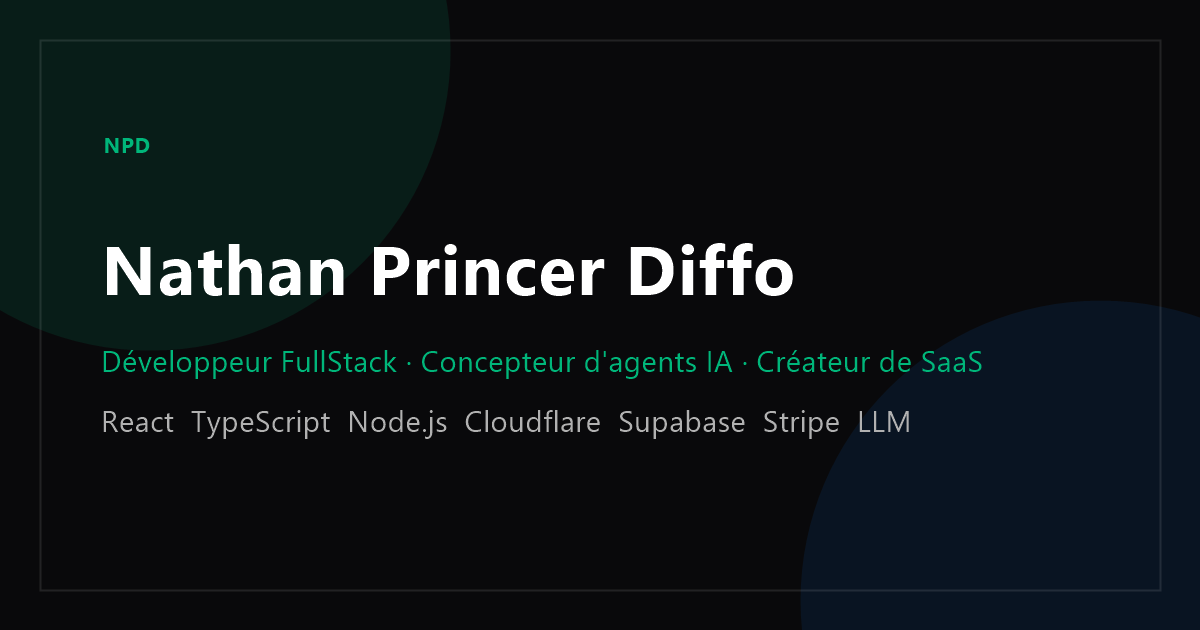
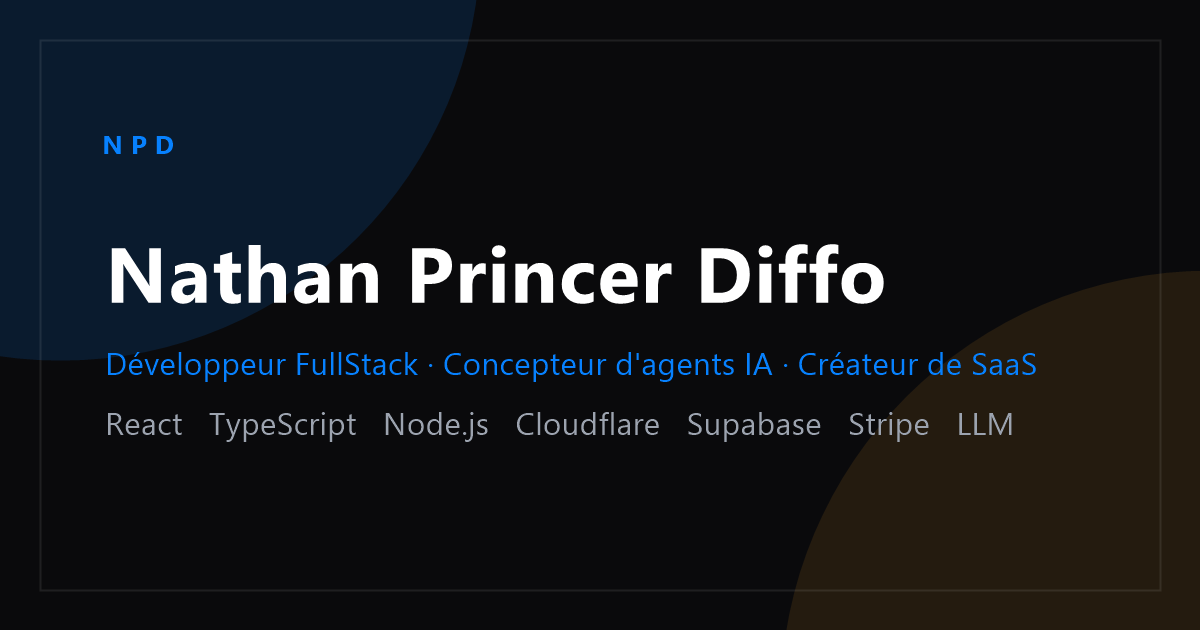
Alignement sur la charte Hope Traders : bleu #0781FE, or en accent
Palette migrée du vert ConfluenceTerminal historique vers la charte
commune : bleu de marque, or pour les mots mis en valeur, fond aux halos
bleu/or. Favicon, og.png et apple-touch-icon régénérés en bleu.

diff --git a/src/index.css b/src/index.css
@@ -1,11 +1,11 @@
 @import 'tailwindcss';
 
 /* ═══════════════════════════════════════════════════════════════════════════
-   DESIGN TOKENS — identiques à ConfluenceTerminal
-   Palette : #09090B · #131315 · #FFFFFF · #B1B1B1 · #00B67A · #08AA58 ·
-             #0781FE · #C97316 — glassmorphism + gradient signature vert → bleu.
-   Toutes les couleurs passent par ces tokens : jamais de hex en dur dans les
-   composants.
+   DESIGN TOKENS — charte Hope Traders
+   Palette : #09090B · #131315 · #FFFFFF · #B1B1B1 · #0781FE (bleu marque) ·
+             #F9A825 (or accent) · #C97316 — glassmorphism, le bleu porte
+   l'action, l'or porte la valeur. Toutes les couleurs passent par ces tokens :
+   jamais de hex en dur dans les composants.
    ═══════════════════════════════════════════════════════════════════════════ */
 @theme {
   --color-background: #09090b;
@@ -15,31 +15,35 @@
   --color-foreground: #ffffff;
   --color-body: #d4d4d8;
   --color-secondary: #b1b1b1;
-  --color-accent: #00b67a;
-  --color-accent-hover: #08aa58;
-  --color-accent-soft: #00b67a; /* le vert terminal passe le contraste AA partout */
-  --color-success: #00b67a;
+  --color-accent: #0781fe;
+  --color-accent-hover: #0565c6;
+  --color-accent-soft: #0781fe; /* le bleu marque passe le contraste AA partout */
+  --color-success: #0781fe; /* ex-vert de marque : aucun gain/perte ici, il suit le bleu */
   --color-danger: #ef4444;
   --color-warning: #c97316;
   --color-info: #0781fe;
+  /* Or : accent secondaire de la charte — badges, mots mis en valeur, orbe bas */
+  --color-gold: #f9a825;
+  --color-gold-soft: rgba(249, 168, 37, 0.15);
 
   --font-sans: 'DM Sans', system-ui, -apple-system, 'Segoe UI', sans-serif;
   --font-mono: 'Azeret Mono', 'Fira Code', monospace;
 
   --shadow-card: 0 8px 32px rgba(0, 0, 0, 0.4);
-  --shadow-glow: 0 0 40px rgba(0, 182, 122, 0.15);
+  --shadow-glow: 0 0 40px rgba(7, 129, 254, 0.15);
 }
 
 /* Tokens verre (hors @theme : pas besoin d'utilitaires Tailwind dérivés) */
 :root {
   --glass-bg: rgba(24, 24, 27, 0.6);
   --glass-border: rgba(255, 255, 255, 0.08);
-  --glass-border-hover: rgba(0, 182, 122, 0.35);
+  --glass-border-hover: rgba(7, 129, 254, 0.35);
   --glass-edge: rgba(255, 255, 255, 0.1);
   --glass-blur: 12px;
-  --accent-soft-bg: rgba(0, 182, 122, 0.1);
-  --accent-border: rgba(0, 182, 122, 0.25);
-  --grad-accent: linear-gradient(to right, #00b67a, #0781fe);
+  --accent-soft-bg: rgba(7, 129, 254, 0.1);
+  --accent-border: rgba(7, 129, 254, 0.25);
+  /* Or/feu : barres d'accent et mots mis en valeur (charte Hope Traders) */
+  --grad-accent: linear-gradient(to right, #fbcd25, #f36e23);
 }
 
 html {
@@ -59,8 +63,9 @@ body {
   line-height: 1.6;
 }
 
-/* Orbes de couleur floutés en fond fixe (signature ConfluenceTerminal) :
-   couche GPU composée une seule fois — pas de repaint au scroll. */
+/* Charte de fond Hope Traders en fond fixe : halo bleu en haut à gauche,
+   halo or en bas à droite, base sombre en diagonale. Couche GPU composée une
+   seule fois — pas de repaint au scroll (jamais background-attachment: fixed). */
 body::before {
   content: '';
   position: fixed;
@@ -68,10 +73,9 @@ body::before {
   z-index: -1;
   pointer-events: none;
   background:
-    radial-gradient(680px 680px at 10% 4%, rgba(0, 182, 122, 0.13), transparent 60%),
-    radial-gradient(760px 760px at 92% 96%, rgba(7, 129, 254, 0.1), transparent 60%),
-    radial-gradient(560px 560px at 68% 30%, rgba(185, 99, 9, 0.05), transparent 62%),
-    radial-gradient(120% 85% at 50% 0%, #141417 0%, #0b0b0d 55%, #060607 100%);
+    radial-gradient(88% 62% at 12% 0%, rgba(7, 129, 254, 0.14), transparent 62%),
+    radial-gradient(76% 56% at 88% 100%, rgba(249, 168, 37, 0.11), transparent 62%),
+    linear-gradient(160deg, #101014 0%, #0a0a0c 60%, #08080a 100%);
 }
 
 /* Rognage horizontal global (orbes décoratifs qui dépassent des sections) */
@@ -107,8 +111,8 @@ body {
 }
 
 @layer components {
-  /* Card verre du design system ConfluenceTerminal : fond translucide,
-     flou 12px, liseré lumineux supérieur, hover vert terminal + lift. */
+  /* Card verre du design system : fond translucide, flou 12px, liseré
+     lumineux supérieur, hover bleu marque + lift. */
   .card {
     @apply rounded-2xl border;
     background: var(--glass-bg);
@@ -137,31 +141,33 @@ body {
       inset 0 1px 0 var(--glass-edge);
   }
 
-  /* Bouton primaire — vert terminal, texte blanc, lueur au survol */
+  /* Bouton primaire — bleu marque, texte blanc, lueur au survol */
   .btn-primary {
     @apply inline-flex min-h-11 cursor-pointer items-center justify-center gap-2 rounded-xl bg-accent px-6 py-3 text-sm font-bold text-white transition-all duration-300 hover:bg-accent-hover;
   }
   .btn-primary:hover {
-    box-shadow: 0 4px 20px rgba(0, 182, 122, 0.3);
+    box-shadow: 0 4px 20px rgba(7, 129, 254, 0.3);
     transform: translateY(-1px);
   }
 
-  /* Bouton secondaire — style o9-btn : transparent, devient vert au survol */
+  /* Bouton secondaire — style o9-btn : transparent, devient bleu au survol */
   .btn-secondary {
     @apply inline-flex min-h-11 cursor-pointer items-center justify-center gap-2 rounded-xl border border-border bg-transparent px-6 py-3 text-sm font-bold text-foreground transition-all duration-300;
   }
   .btn-secondary:hover {
     background: var(--color-accent);
     border-color: var(--color-accent);
-    box-shadow: 0 4px 20px rgba(0, 182, 122, 0.3);
+    box-shadow: 0 4px 20px rgba(7, 129, 254, 0.3);
     transform: translateY(-1px);
   }
 
-  /* Badge technologie — teinte accent ConfluenceTerminal */
+  /* Badge technologie — pastille informative de la charte : fond or doux,
+     bordure sombre, texte principal. Un badge n'est jamais bleu : le bleu
+     porte l'action, l'or porte la valeur. */
   .badge-tech {
-    @apply inline-flex items-center rounded-full px-3 py-1 text-center text-xs font-bold text-accent;
-    background: var(--accent-soft-bg);
-    border: 1px solid var(--accent-border);
+    @apply inline-flex items-center rounded-full px-3 py-1 text-center text-xs font-bold text-foreground;
+    background: var(--color-gold-soft);
+    border: 1px solid #26262a;
     letter-spacing: 0.02em;
   }
 
@@ -173,9 +179,9 @@ body {
     font-variant-numeric: tabular-nums;
   }
 
-  /* Texte gradient signature vert → bleu */
+  /* Mots mis en valeur — dégradé or/feu de la charte Hope Traders */
   .grad-text {
-    background: linear-gradient(135deg, #00b67a, #0781fe);
+    background: linear-gradient(-15deg, #fbcd25 0%, #f36e23 100%);
     -webkit-background-clip: text;
     -webkit-text-fill-color: transparent;
     background-clip: text;

diff --git a/src/components/Hero.tsx b/src/components/Hero.tsx
@@ -23,14 +23,15 @@ export default function Hero() {
       id="accueil"
       className="relative flex min-h-dvh items-center overflow-hidden"
     >
-      {/* Fond ConfluenceTerminal : grille technique + orbes vert/bleu + réseau Three.js */}
+      {/* Fond charte Hope Traders : grille technique + orbes (bleu en haut,
+          or en bas) + réseau Three.js */}
       <div className="bg-grid" aria-hidden="true" />
       <div
         className="absolute -left-24 top-16 h-[420px] w-[420px] rounded-full bg-accent/10 blur-[90px]"
         aria-hidden="true"
       />
       <div
-        className="absolute -right-24 bottom-10 h-[460px] w-[460px] rounded-full bg-info/10 blur-[100px]"
+        className="absolute -right-24 bottom-10 h-[460px] w-[460px] rounded-full bg-gold/10 blur-[100px]"
         aria-hidden="true"
       />
       <Suspense fallback={null}>

diff --git a/index.html b/index.html
@@ -3,7 +3,7 @@
   <head>
     <meta charset="UTF-8" />
     <meta name="viewport" content="width=device-width, initial-scale=1.0" />
-    <meta name="theme-color" content="#09090B" />
+    <meta name="theme-color" content="#0781FE" />
 
     <title>Nathan Princer Diffo — Développeur FullStack · Agents IA · SaaS</title>
     <meta

diff --git a/README.md b/README.md
@@ -1,7 +1,7 @@
 # Portfolio — Nathan Princer Diffo
 
 Portfolio personnel one-page : **React + Vite + TypeScript + Tailwind CSS v4 + Framer Motion + Three.js**.
-Design system **ConfluenceTerminal** (zinc profond, glassmorphism, vert terminal, gradient vert → bleu),
+Design system **charte Hope Traders** (zinc profond, glassmorphism, bleu marque `#0781FE`, or accent `#F9A825`),
 animations au scroll, fond "réseau de neurones" en Three.js, 100 % responsive, SEO complet.
 
 ## Démarrage rapide
@@ -87,11 +87,12 @@ src/
 └── index.css              Tokens du design system (couleurs, ombres, boutons)
 ```
 
-## Design system (identique à ConfluenceTerminal)
+## Design system (charte Hope Traders)
 
 Tokens définis dans [`src/index.css`](src/index.css) (`@theme` + variables verre) :
 `background #09090B`, surfaces translucides glassmorphism (blur 12px, liseré lumineux),
-accent **vert terminal #00B67A** (hover `#08AA58`), bleu `#0781FE`, gradient signature
-vert → bleu, textes `#FFFFFF` / `#D4D4D8` / `#B1B1B1`, orbes de couleur flottants en fond fixe.
+accent **bleu marque #0781FE** (hover `#0565C6`), or accent `#F9A825`, mots mis en
+valeur en dégradé or/feu (`#FBCD25 → #F36E23`), textes `#FFFFFF` / `#D4D4D8` / `#B1B1B1`,
+fond de charte fixe (halo bleu en haut à gauche, halo or en bas à droite).
 Typographies : **DM Sans** (corps) + **Azeret Mono** (chiffres, tabular-nums).
 Aucune couleur en dur dans les composants.
